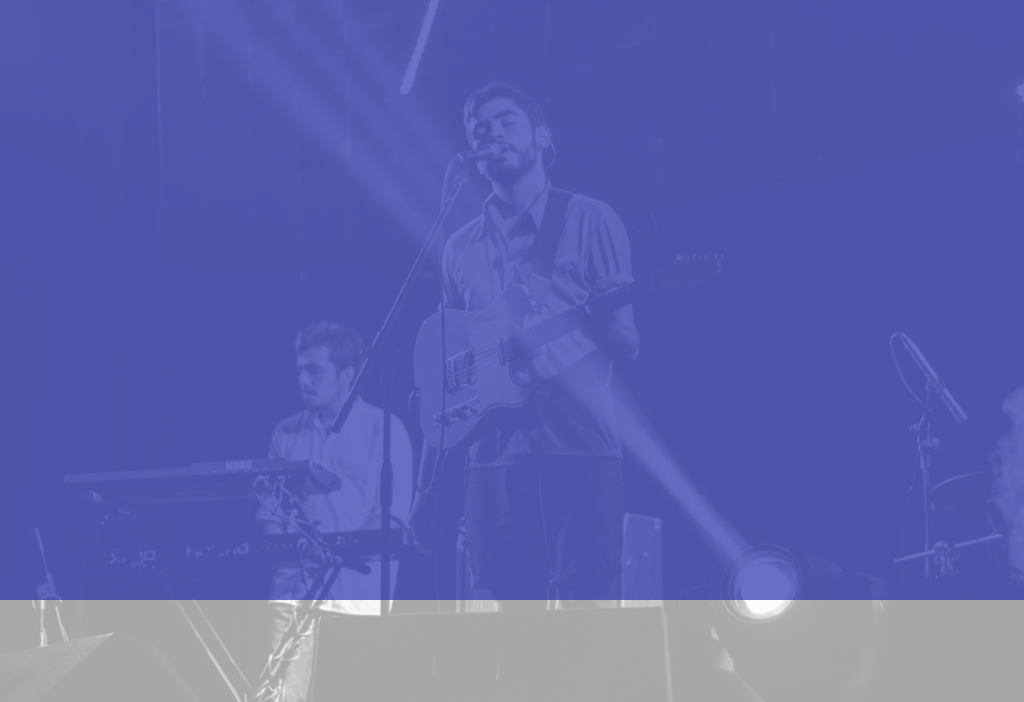
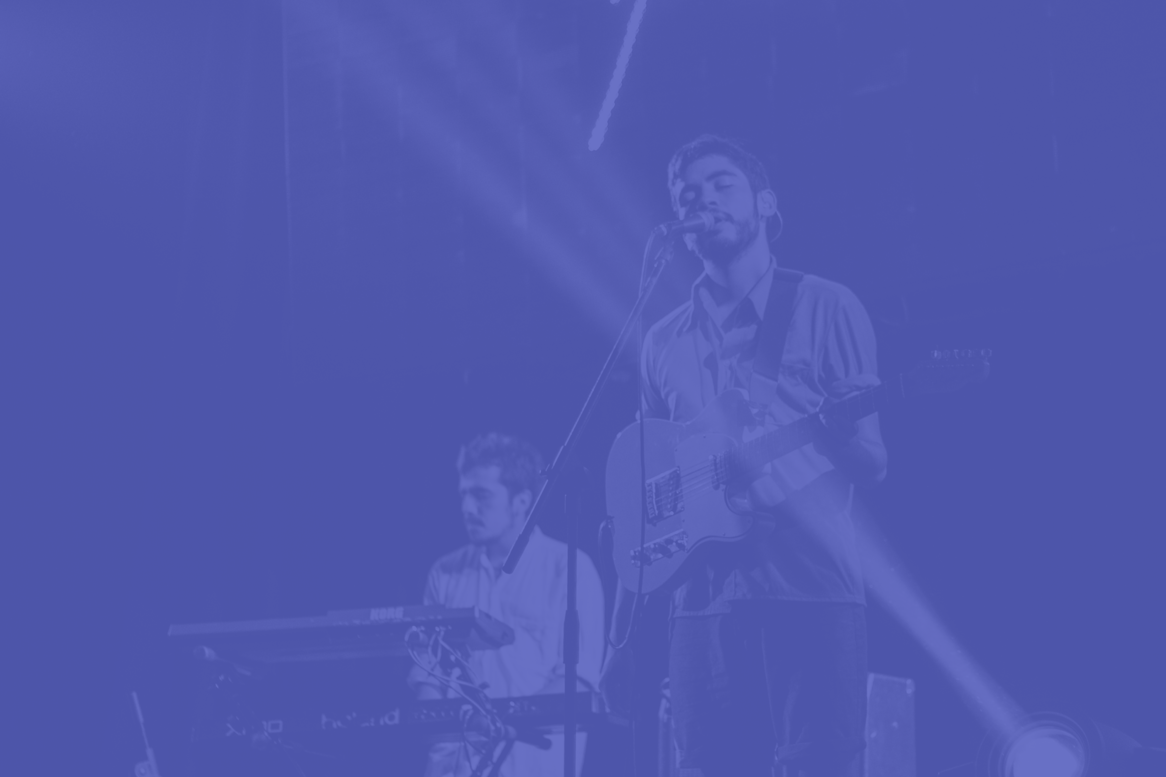
fixed homepage images

diff --git a/css/skeleton.css b/css/skeleton.css
@@ -621,7 +621,7 @@ a.next {
 
 /* LocalSound */
 .localsound .image {
-  background: url(../images/local-sound.png);
+  background: url(../images/local-sound2.png);
   background-color: #272A31; 
   background-repeat: no-repeat;
   background-size: cover;
